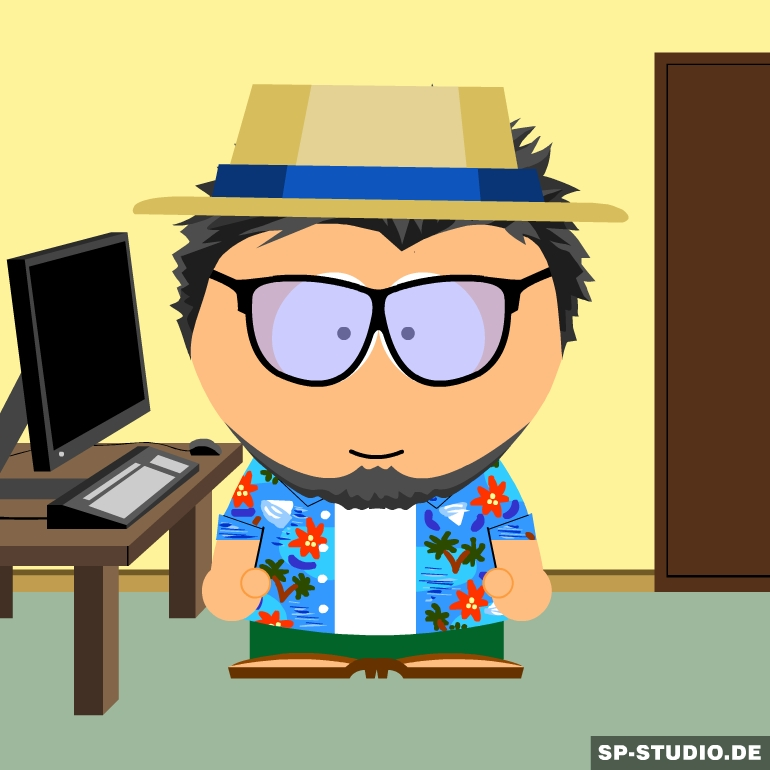
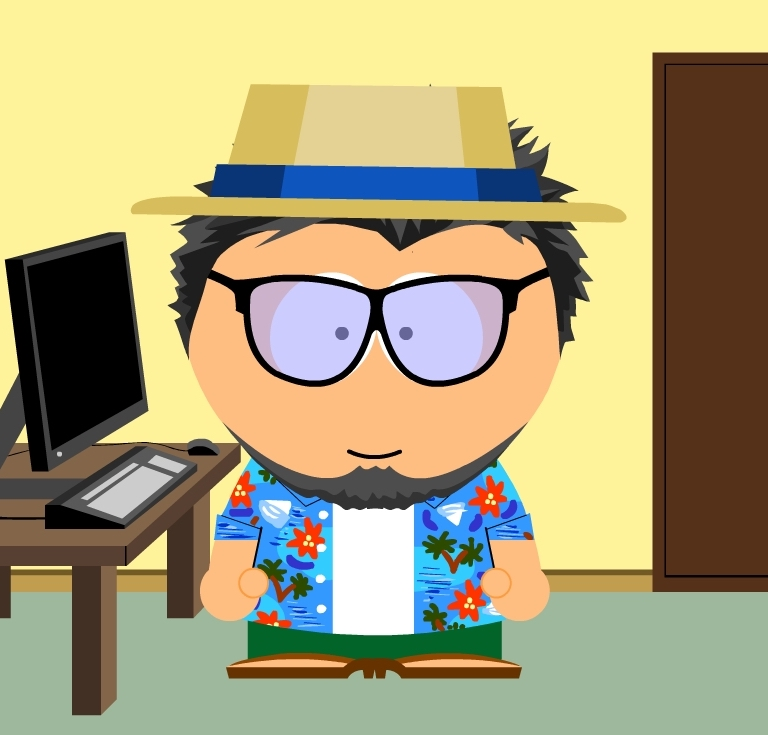
Change image size

diff --git a/index.html b/index.html
@@ -57,7 +57,7 @@
     <!-- Header -->
     <header class="masthead bg-primary text-white text-center">
       <div class="container">
-        <img class="img-fluid mb-5 d-block mx-auto" src="img/sp-studio.jpg" alt="">
+        <img class="img-fluid mb-5 d-block mx-auto" src="img/sp-studio.jpg" alt="" width="350px">
         <h1 class="text-uppercase mb-0">Naoya Kojima</h1>
         <hr class="star-light">
         <h2 class="font-weight-light mb-0">Ruby on Rails Developer</h2>
